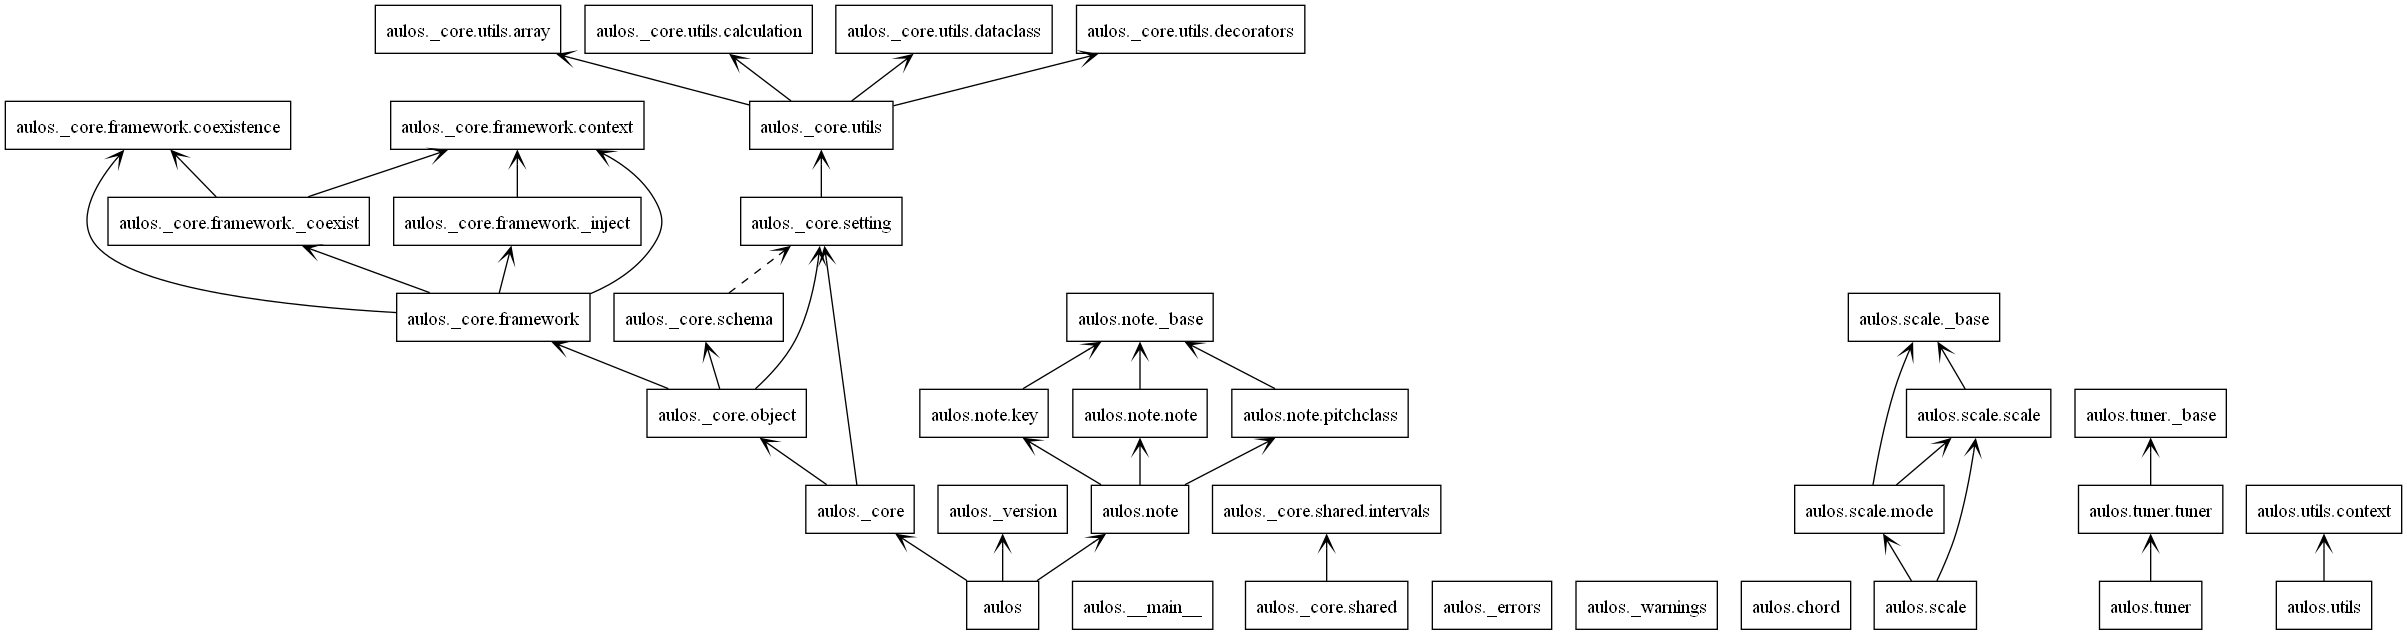
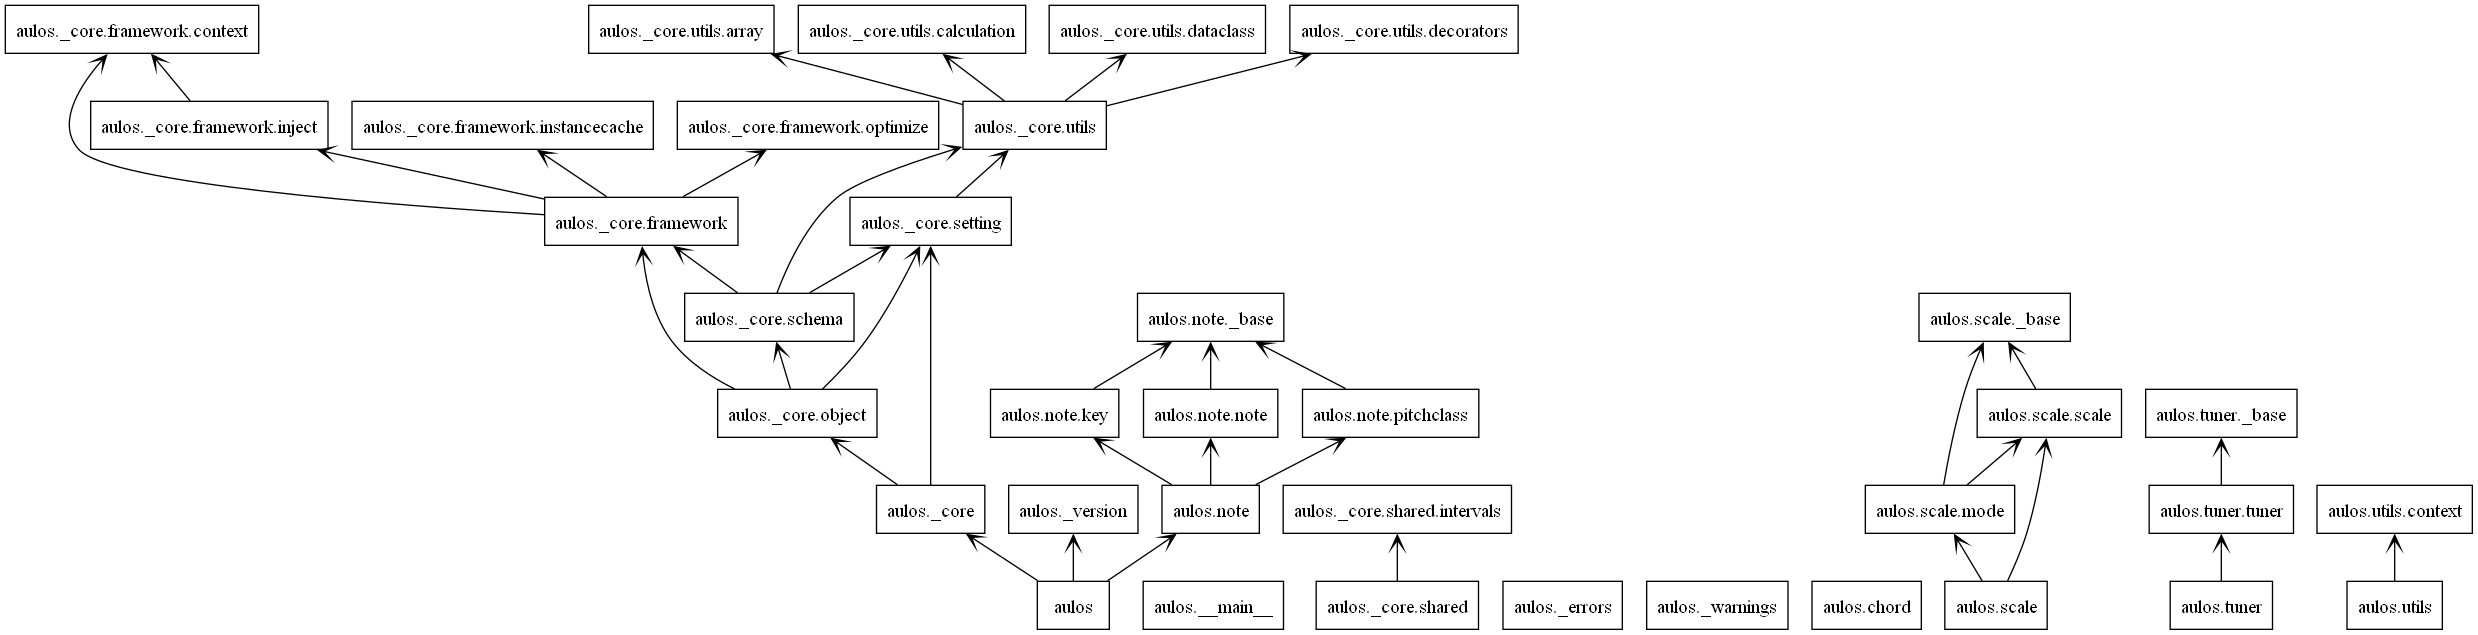
設定周り変更

diff --git a/src/aulos/_core/schema.py b/src/aulos/_core/schema.py
@@ -1,19 +1,25 @@
-from __future__ import annotations
-
 import typing as t
-from functools import cached_property
-from typing import TYPE_CHECKING
+from dataclasses import dataclass
+from functools import cached_property, lru_cache
 
+from .framework import InstanceCacheMeta
+from .schemas.note import NoteSchema
+from .schemas.pitchclass import PitchClassSchema
+from .setting import Setting
 from .utils import diff
 
-if TYPE_CHECKING:
-    from .setting import Setting  # pragma: no cover
 
+@dataclass(frozen=True, init=False)
+class Schema(metaclass=InstanceCacheMeta):
 
-class Schema:
+    _setting: Setting
+    _note: NoteSchema
+    _pitchclass: PitchClassSchema
 
     def __init__(self, setting: Setting) -> None:
-        self._setting = setting
+        object.__setattr__(self, "_setting", setting)
+        object.__setattr__(self, "_pitchclass", PitchClassSchema(setting))
+        object.__setattr__(self, "_note", NoteSchema(setting, self._pitchclass))
 
     def __eq__(self, other: t.Self) -> bool:
         return self._setting == other._setting
@@ -33,7 +39,7 @@ class Schema:
 
     @property
     def semitone(self) -> int:
-        return self._setting.pitchclass.derive.semitone
+        return self._pitchclass.semitone
 
     @property
     def intervals(self) -> tuple[int]:
@@ -41,7 +47,7 @@ class Schema:
 
     @property
     def positions(self) -> tuple[int]:
-        return self._setting.pitchclass.derive.positions
+        return self._pitchclass.positions
 
     @property
     def symbols(self) -> tuple[str]:
@@ -49,11 +55,11 @@ class Schema:
 
     @cached_property
     def pitchnames(self) -> tuple[str]:
-        return tuple(self._setting.pitchclass.derive.name2class.keys())
+        return tuple(self._pitchclass.name2class.keys())
 
     @cached_property
     def pitchclasses(self) -> tuple[int]:
-        return tuple(self._setting.pitchclass.derive.class2name.keys())
+        return tuple(self._pitchclass.class2name.keys())
 
     def count_accidental(self, pitchname: str) -> t.Optional[int]:
         if self.is_pitchname(pitchname):
@@ -78,7 +84,7 @@ class Schema:
     ) -> t.Optional[str]:
         if not self.is_pitchclass(pitchclass):
             raise ValueError(f"Invalid pitchclass: '{pitchclass}'.")
-        return self._setting.pitchclass.derive.class2name[pitchclass][
+        return self._pitchclass.class2name[pitchclass][
             self._setting.pitchclass.accidental.limit + accidental
         ]
 
@@ -87,12 +93,12 @@ class Schema:
     ) -> tuple[t.Optional[str]]:
         if not self.is_pitchclass(pitchclass):
             raise ValueError(f"Invalid pitchclass: '{pitchclass}'.")
-        return self._setting.pitchclass.derive.class2name[pitchclass]
+        return self._pitchclass.class2name[pitchclass]
 
     def convert_pitchname_to_picthclass(self, pitchname: str) -> int:
         if not self.is_pitchname(pitchname):
             raise ValueError(f"Invalid pitchname: '{pitchname}'.")
-        return self._setting.pitchclass.derive.name2class[pitchname]
+        return self._pitchclass.name2class[pitchname]
 
     def convert_pitchname_to_symbol(self, pitchname: str):
         if not self.is_pitchname(pitchname):
@@ -116,18 +122,18 @@ class Schema:
 
     @cached_property
     def notenames(self) -> tuple[str]:
-        return tuple(self._setting.note.derive.name2number.keys())
+        return tuple(self._note.name2number.keys())
 
     @cached_property
     def notenumbers(self) -> tuple[int]:
-        return tuple(self._setting.note.derive.number2name.keys())
+        return tuple(self._note.number2name.keys())
 
     def convert_notenumber_to_notename(
         self, notenumber: int, accidental: int
     ) -> t.Optional[str]:
         if not self.is_notenumber(notenumber):
             raise ValueError(f"Invalid notenumber: '{notenumber}'.")
-        return self._setting.note.derive.number2name[notenumber][
+        return self._note.number2name[notenumber][
             self._setting.pitchclass.accidental.limit + accidental
         ]
 
@@ -136,12 +142,12 @@ class Schema:
     ) -> tuple[t.Optional[str]]:
         if not self.is_notenumber(notenumber):
             raise ValueError(f"Invalid notenumber: '{notenumber}'.")
-        return self._setting.note.derive.number2name[notenumber]
+        return self._note.number2name[notenumber]
 
     def convert_notename_to_notenumber(self, notename: str) -> int:
         if not self.is_notename(notename):
             raise ValueError(f"Invalid notename: '{notename}'.")
-        return self._setting.note.derive.name2number[notename]
+        return self._note.name2number[notename]
 
     def is_notename(self, value: t.Any) -> t.TypeGuard[str]:
         return isinstance(value, str) and value in self.notenames

diff --git a/src/aulos/_core/schemas/note.py b/src/aulos/_core/schemas/note.py
@@ -1,20 +1,17 @@
-from __future__ import annotations
-
 from dataclasses import dataclass
-from typing import TYPE_CHECKING
 
-if TYPE_CHECKING:
-    from ...setting import Setting  # pragma: no cover
+from ..setting import Setting
+from .pitchclass import PitchClassSchema
 
 
 @dataclass(frozen=True, init=False)
-class NoteSettingDerive:
+class NoteSchema:
 
     octave: int
     name2number: dict[str, int]
     number2name: dict[int, tuple[str | None]]
 
-    def __init__(self, setting: Setting):
+    def __init__(self, setting: Setting, schema: PitchClassSchema):
         min_notenumber = setting.note.notenumber.min
         max_notenumber = setting.note.notenumber.max
         ref_notenumber = setting.note.presentation.reference.number
@@ -27,16 +24,16 @@ class NoteSettingDerive:
             self._convert_pitchname_to_notename(
                 pitchname, symbol
             ): self._convert_pitchclass_to_notenumber(
-                pitchclass, pitch, setting.pitchclass.derive.semitone
+                pitchclass, pitch, schema.semitone
             )
-            for pitchname, pitchclass in setting.pitchclass.derive.name2class.items()
+            for pitchname, pitchclass in schema.name2class.items()
             for pitch, symbol in enumerate(setting.note.presentation.symbols)
         }
         temp_number2name = {
             self._convert_pitchclass_to_notenumber(
-                pitchclass, pitch, setting.pitchclass.derive.semitone
+                pitchclass, pitch, schema.semitone
             ): self._convert_pitchnames_to_notenames(pitchnames, symbol)
-            for pitchclass, pitchnames in setting.pitchclass.derive.class2name.items()
+            for pitchclass, pitchnames in schema.class2name.items()
             for pitch, symbol in enumerate(setting.note.presentation.symbols)
         }
 

diff --git a/src/aulos/_core/settings/note.py b/src/aulos/_core/settings/note.py
@@ -1,41 +1,37 @@
-from dataclasses import dataclass, field
-
-from .derive.note import NoteSettingDerive
+from dataclasses import dataclass
 
 
-@dataclass(frozen=True)
+@dataclass(frozen=True, slots=True)
 class NotePresentationReferenceSetting:
     number: int
     symbol: str
 
 
-@dataclass(frozen=True)
+@dataclass(frozen=True, slots=True)
 class NoteTunerReferenceSetting:
     hz: float
 
 
-@dataclass(frozen=True)
+@dataclass(frozen=True, slots=True)
 class NoteNumberSetting:
     min: int
     max: int
 
 
-@dataclass(frozen=True)
+@dataclass(frozen=True, slots=True)
 class NotePresentationSetting:
     name: str
     symbols: tuple[str]
     reference: NotePresentationReferenceSetting
 
 
-@dataclass(frozen=True)
+@dataclass(frozen=True, slots=True)
 class NoteTunerSetting:
     reference: NoteTunerReferenceSetting
 
 
-@dataclass(frozen=True)
+@dataclass(frozen=True, slots=True)
 class NoteSetting:
     notenumber: NoteNumberSetting
     presentation: NotePresentationSetting
     tuner: NoteTunerSetting
-
-    derive: NoteSettingDerive = field(init=False)

diff --git a/tests/aulos/note/test_pitchclass.py b/tests/aulos/note/test_pitchclass.py
@@ -82,7 +82,7 @@ def test_PitchClass_dunder_add(setting, data_pitchclass):
         for pitchclass2 in data_pitchclass:
             assert (PitchClass(pitchclass, setting=setting) + pitchclass2) == (
                 pitchclass + pitchclass2
-            ) % setting.pitchclass.derive.semitone
+            ) % sum(setting.pitchclass.intervals)
 
 
 def test_PitchClass_dunder_sub(setting, data_pitchclass):
@@ -90,7 +90,7 @@ def test_PitchClass_dunder_sub(setting, data_pitchclass):
         for pitchclass2 in data_pitchclass:
             assert (PitchClass(pitchclass, setting=setting) - pitchclass2) == (
                 pitchclass - pitchclass2
-            ) % setting.pitchclass.derive.semitone
+            ) % sum(setting.pitchclass.intervals)
 
 
 def test_PitchClass_dunder_int(setting, data_pitchclass):

diff --git a/src/aulos/_core/setting.py b/src/aulos/_core/setting.py
@@ -5,21 +5,15 @@ import typing as t
 from dataclasses import dataclass
 from pathlib import Path
 
-from .settings.derive.note import NoteSettingDerive
-from .settings.derive.pitchclass import PitchClassSettingDerive
 from .settings.note import NoteSetting
 from .settings.pitchclass import PitchClassSetting
 from .utils import from_dict
 
 
-@dataclass(frozen=True)
+@dataclass(frozen=True, slots=True)
 class Setting:
     pitchclass: PitchClassSetting
     note: NoteSetting
-
-    def __post_init__(self):
-        object.__setattr__(self.pitchclass, "derive", PitchClassSettingDerive(self))
-        object.__setattr__(self.note, "derive", NoteSettingDerive(self))
 
     @classmethod
     def default(cls) -> t.Self:

diff --git a/src/aulos/_core/settings/pitchclass.py b/src/aulos/_core/settings/pitchclass.py
@@ -1,24 +1,20 @@
-from dataclasses import dataclass, field
-
-from .derive.pitchclass import PitchClassSettingDerive
+from dataclasses import dataclass
 
 
-@dataclass(frozen=True)
+@dataclass(frozen=True, slots=True)
 class AccidentalSymbolSetting:
     sharp: str
     flat: str
 
 
-@dataclass(frozen=True)
+@dataclass(frozen=True, slots=True)
 class AccidentalSetting:
     limit: int
     symbol: AccidentalSymbolSetting
 
 
-@dataclass(frozen=True)
+@dataclass(frozen=True, slots=True)
 class PitchClassSetting:
     intervals: tuple[int]
     symbols: tuple[str]
     accidental: AccidentalSetting
-
-    derive: PitchClassSettingDerive = field(init=False)

diff --git a/src/aulos/_core/framework/instancecache.py b/src/aulos/_core/framework/instancecache.py
@@ -1,0 +1,16 @@
+import typing as t
+
+
+class InstanceCacheMeta(type):
+
+    def __new__(cls, name: str, bases: tuple[type], dct: dict[str, t.Any], **kwargs):
+        dct["_instance_cache"] = {}
+        return super(InstanceCacheMeta, cls).__new__(cls, name, bases, dct, **kwargs)
+
+    def __call__(cls, *args, **kwargs):
+        key = (args, frozenset(kwargs.items()))
+        if key not in cls._instance_cache:
+            cls._instance_cache[key] = super(InstanceCacheMeta, cls).__call__(
+                *args, **kwargs
+            )
+        return cls._instance_cache[key]

diff --git a/src/aulos/tuner/tuner.py b/src/aulos/tuner/tuner.py
@@ -2,11 +2,9 @@ import typing as t
 
 from .._core import AulosObject
 from ._base import BaseTuner
-from .processing.frequency_ratio import (
-    fivelimit_tuning_table,
-    meantone_tuning_table,
-    pythagorean_tuning_table,
-)
+from .processing.frequency_ratio import (fivelimit_tuning_table,
+                                         meantone_tuning_table,
+                                         pythagorean_tuning_table)
 
 
 class JustIntonationTuner(BaseTuner, AulosObject):

diff --git a/src/aulos/_core/schemas/pitchclass.py b/src/aulos/_core/schemas/pitchclass.py
@@ -1,15 +1,11 @@
-from __future__ import annotations
-
 from dataclasses import dataclass
 from itertools import accumulate, chain
-from typing import TYPE_CHECKING
 
-if TYPE_CHECKING:
-    from ...setting import Setting  # pragma: no cover
+from ..setting import Setting
 
 
 @dataclass(frozen=True, init=False)
-class PitchClassSettingDerive:
+class PitchClassSchema:
 
     semitone: int
     positions: tuple[int]

diff --git a/src/aulos/_core/framework/__init__.py b/src/aulos/_core/framework/__init__.py
@@ -1,5 +1,6 @@
 from .context import Context
 from .inject import InjectedMeta
+from .instancecache import InstanceCacheMeta
 from .optimize import OptimizedMeta
 
-__all__ = ["Context", "InjectedMeta", "OptimizedMeta"]
+__all__ = ["Context", "InjectedMeta", "OptimizedMeta", "InstanceCacheMeta"]

diff --git a/src/aulos/_core/object.py b/src/aulos/_core/object.py
@@ -5,7 +5,6 @@ from .framework import InjectedMeta, OptimizedMeta
 from .schema import Schema
 from .setting import Setting
 
-
 AulosObjectMeta = type("AulosObjectMeta", (InjectedMeta, OptimizedMeta, ABCMeta), {})
 
 
